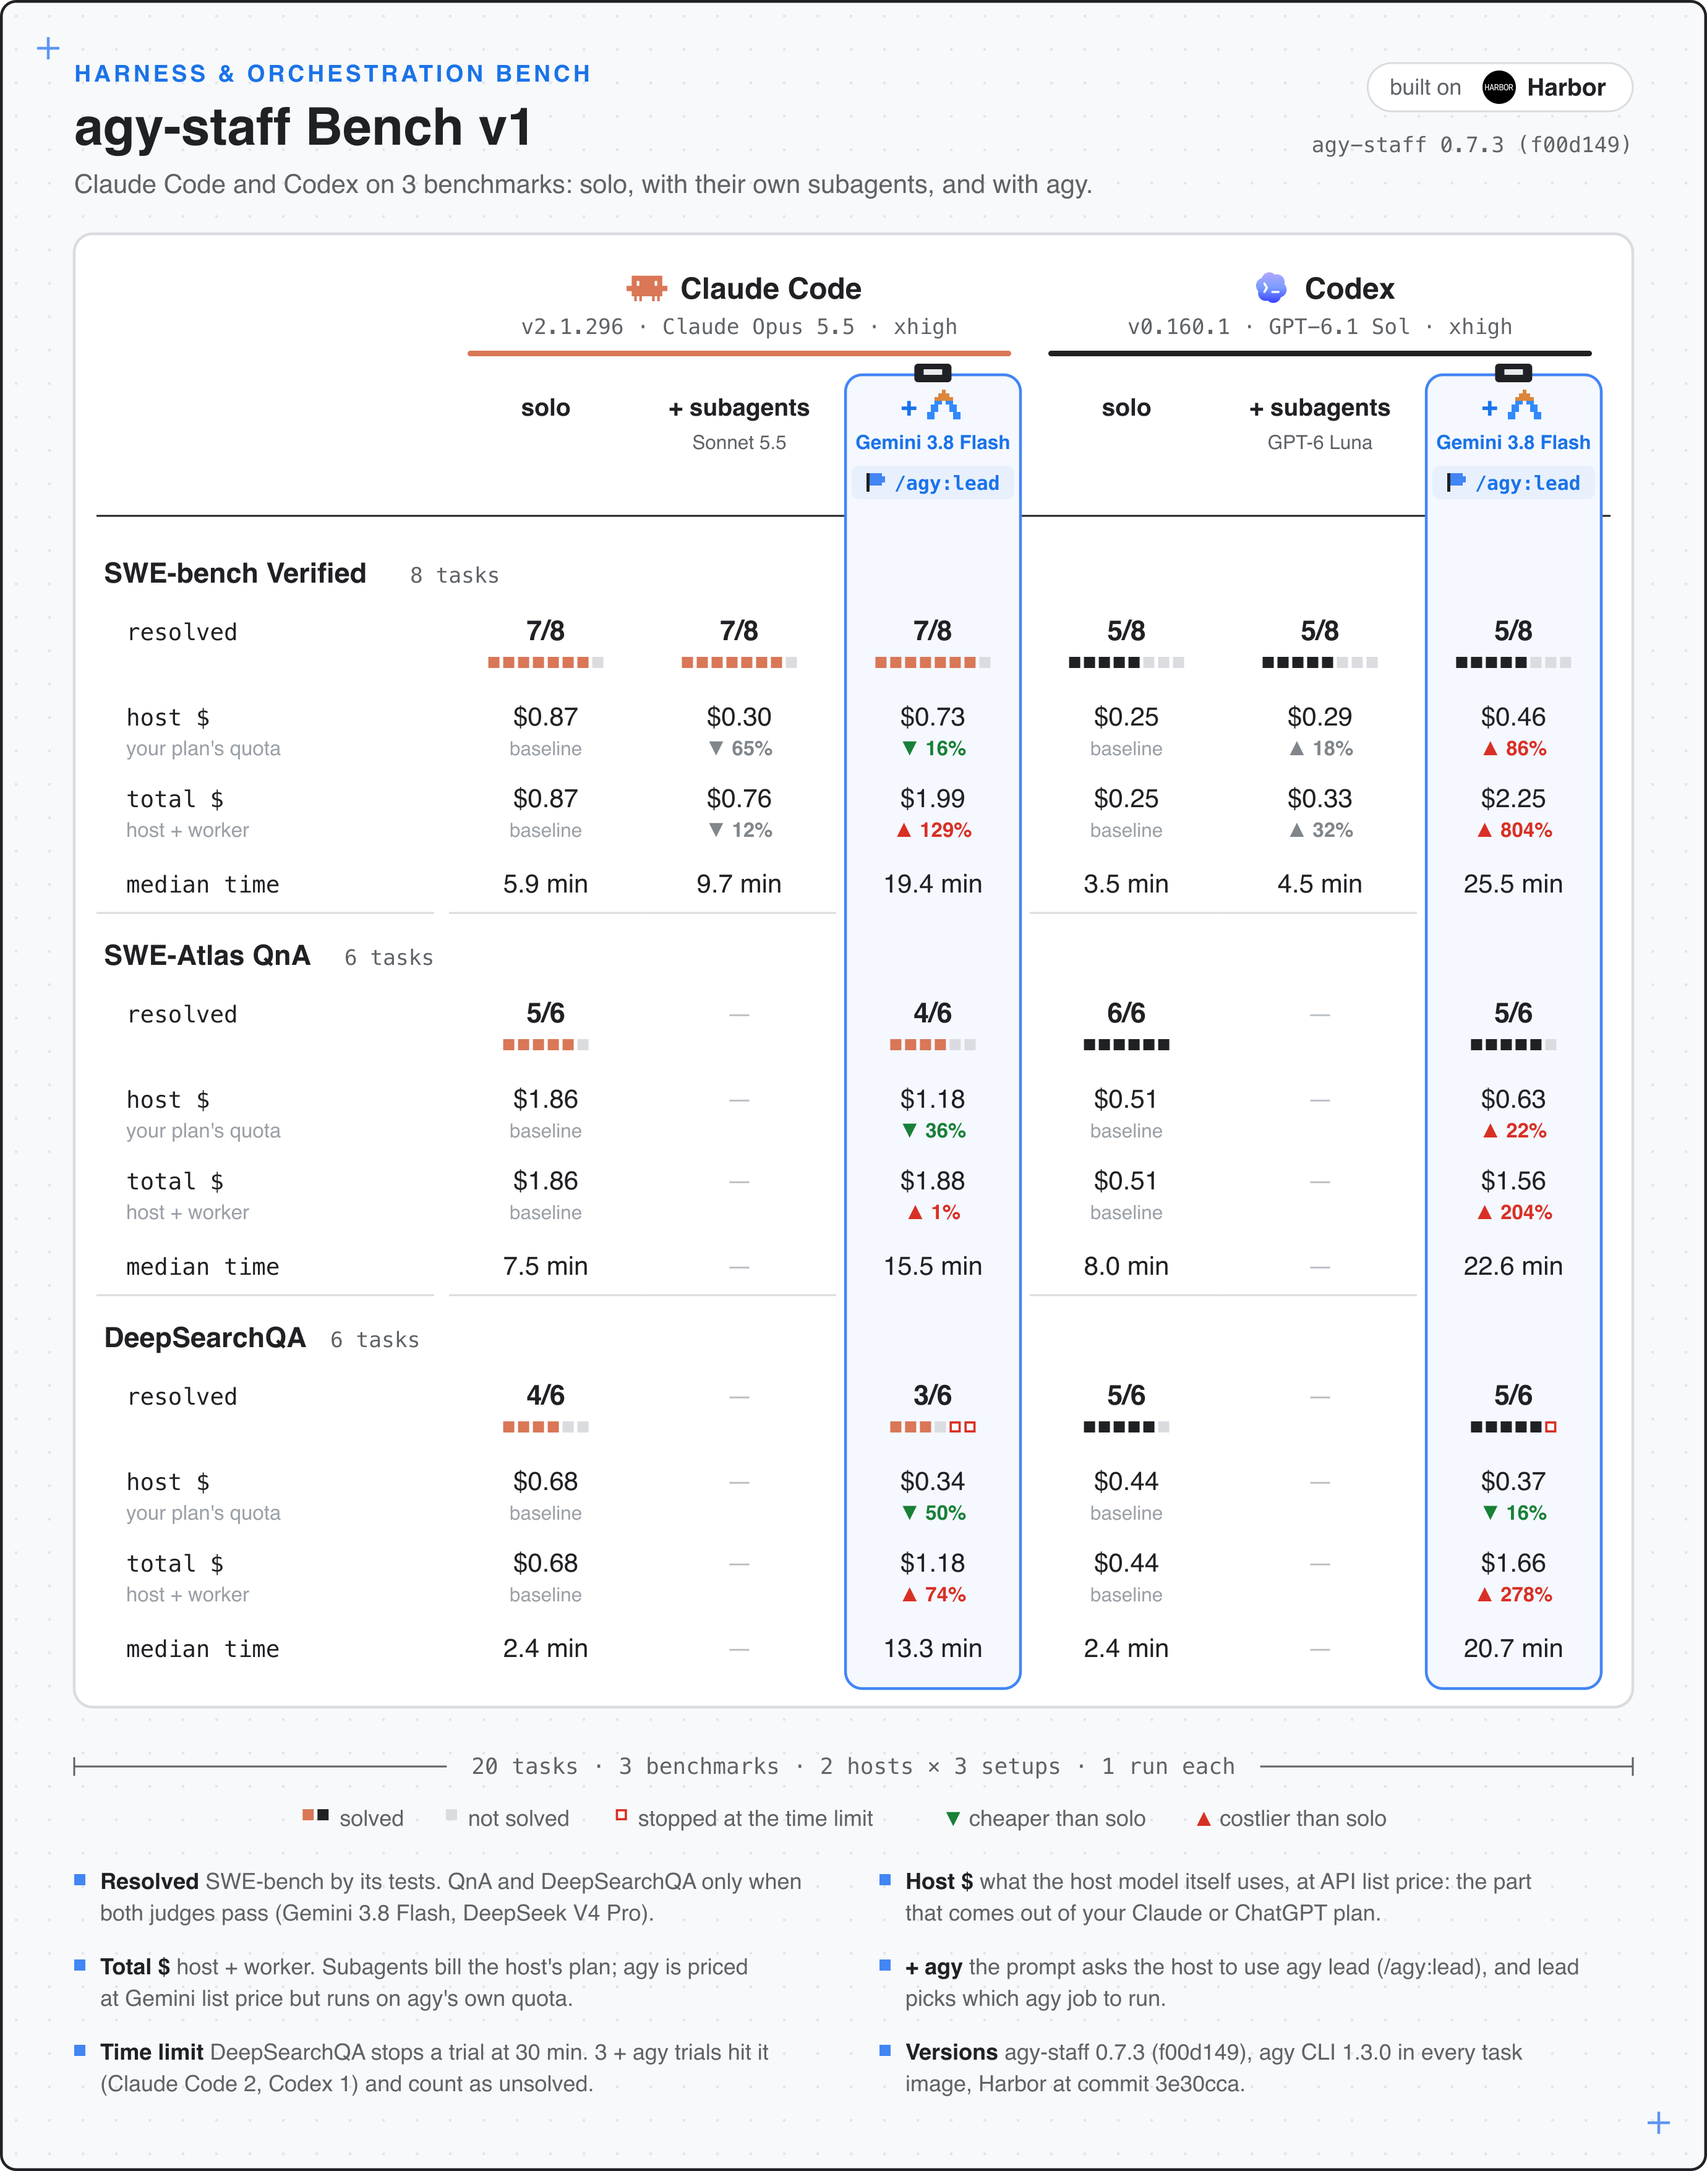
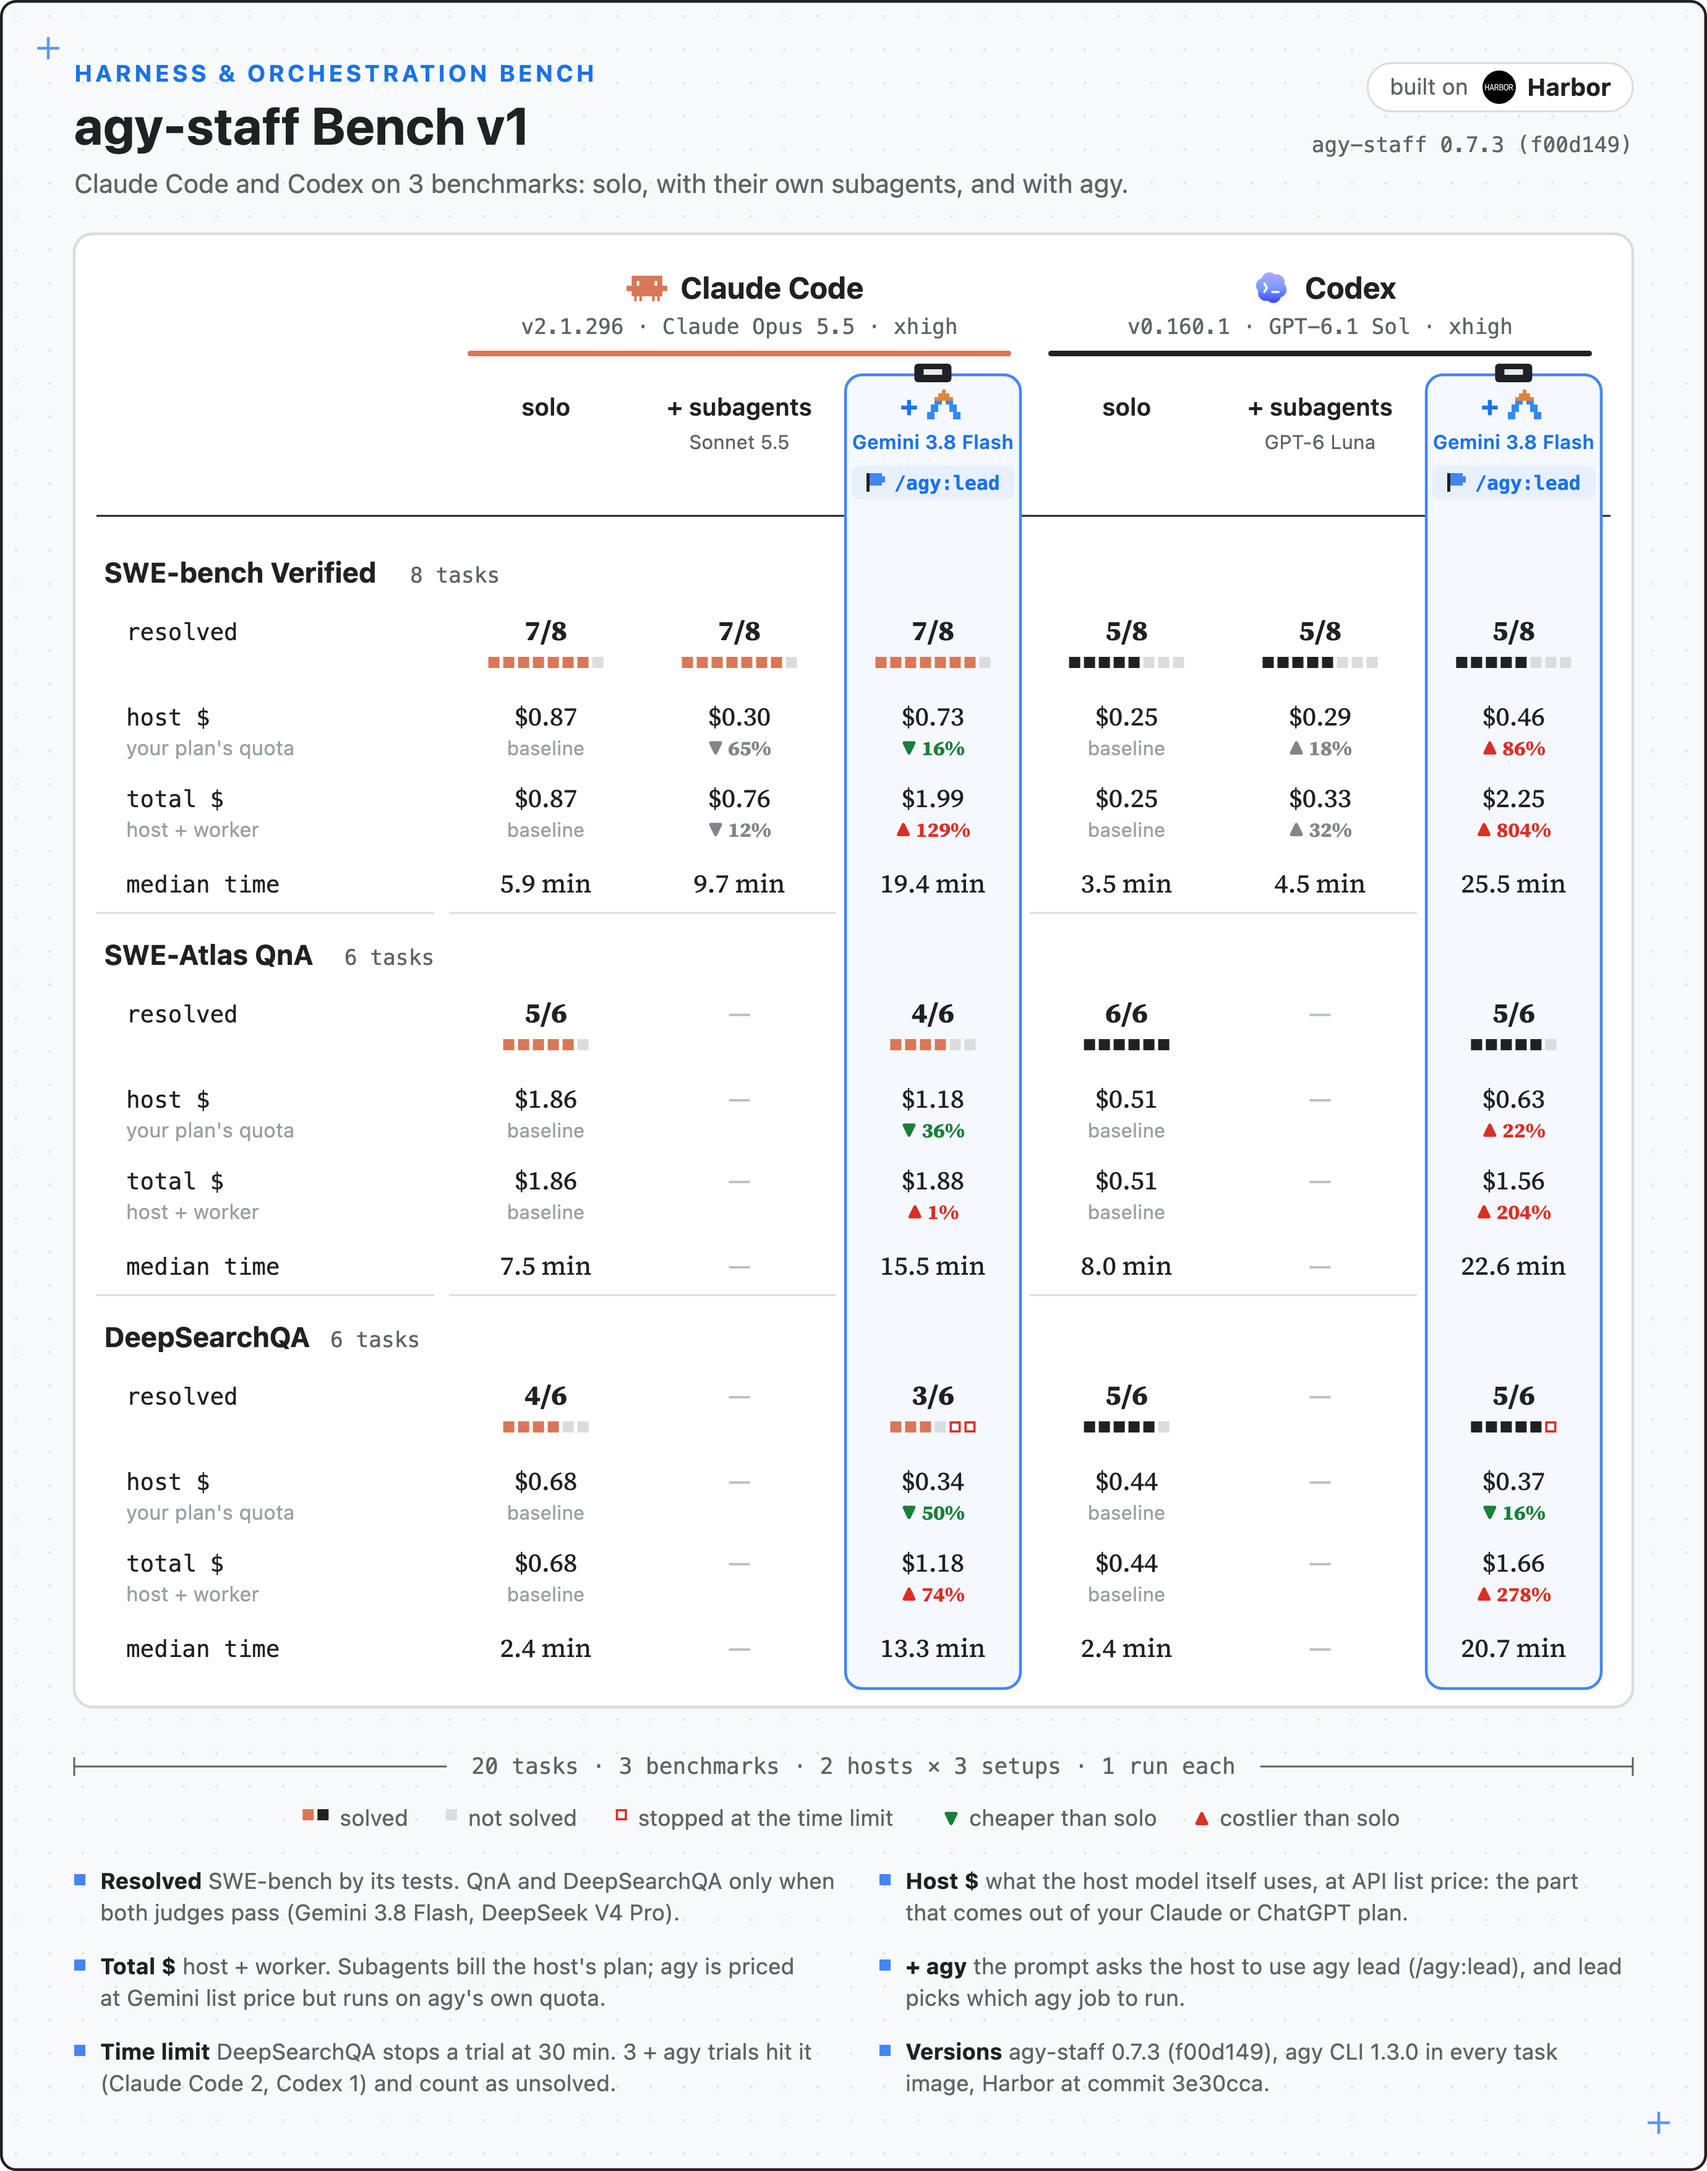
fix(bench): render the v1 table PNG with its Source Serif 4 numbers
The PNG was rendered with rsvg-convert, which ignores the @font-face
rules embedded in summary.svg, so the README image showed the table's
numbers in the system sans instead of Source Serif 4. Re-render it with
headless Chrome at 3x (same 2760x3510 size) and note the method in the
bench READMEs. summary.svg is unchanged and already renders the font.

diff --git a/bench/README.md b/bench/README.md
@@ -70,7 +70,7 @@ Tasks were drawn with a fixed seed; their IDs are in `data.json`.
 results/
 └── v1/
     ├── summary.svg   the table
-    ├── summary.png   the same table rendered for the READMEs (rsvg-convert -w 2760 -b white)
+    ├── summary.png   the same table rendered for the READMEs (headless Chrome at 3x; rsvg-convert drops the embedded number font)
     └── data.json     the 96 trials behind the table, plus per-cell aggregates
 ```
 

diff --git a/bench/README.zh-CN.md b/bench/README.zh-CN.md
@@ -70,7 +70,7 @@ v1 只在 SWE-bench Verified 上跑了"+ subagents"。
 results/
 └── v1/
     ├── summary.svg   这张表
-    ├── summary.png   同一张表，渲染后放进 README（rsvg-convert -w 2760 -b white）
+    ├── summary.png   同一张表，渲染后放进 README（headless Chrome 3 倍渲染；rsvg-convert 会丢掉内嵌的数字字体）
     └── data.json     表背后的 96 次 trial，以及每个格子的汇总
 ```
 
